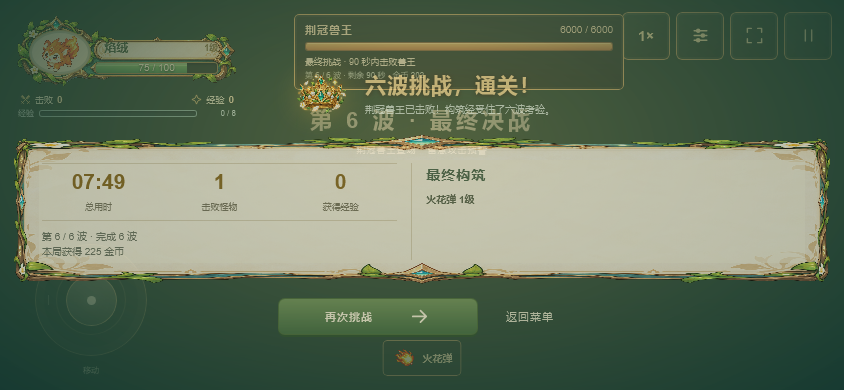
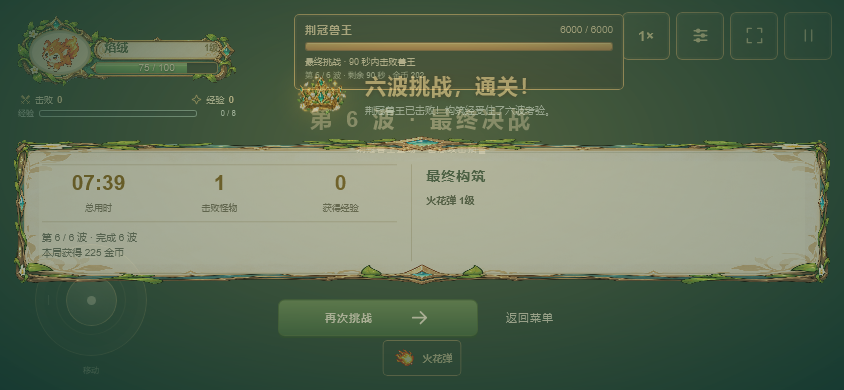
10倍速

diff --git a/tests/wave-boundary-performance.spec.ts b/tests/wave-boundary-performance.spec.ts
@@ -11,16 +11,19 @@ test.beforeEach(async ({ page }, info) => {
   await page.locator('#start-fusion').click();
 });
 
-for (const control of ['keyboard', 'joystick']) test(`held ${control} movement and a living enemy carry across the first boundary`, async ({ page }) => {
-  await page.evaluate(() => {
+for(const config of [{wave:1,speed:1},{wave:2,speed:1},{wave:2,speed:10},{wave:3,speed:10},{wave:4,speed:10}])
+for (const control of ['keyboard', 'joystick']) test(`held ${control} carries across wave ${config.wave} at ${config.speed}x with music unavailable`, async ({ page }) => {
+  await page.route('**/assets/music/*.ogg',route=>route.abort());
+  await page.evaluate(({wave,speed}) => {
     const g = (window as any).game; g.sleep();
+    g.run.waveIndex=wave-1;g.preferences.gameSpeed=speed;
     for (const e of g.combat.enemies) e.active = false;
     for (const o of g.combat.orbs) o.active = false;
-    g.run.waveElapsed = 65 - .01;
+    g.run.waveElapsed = g.run.definition.seconds - .01;
     const enemy = g.combat.spawn('tank', -12, -12, 0); enemy.hp = 37;
     (window as any).carriedEnemy = enemy;
     Object.assign(g.combat.orbs[0], { active: true, value: 8, x: 15, z: 15, previousX: 15, previousZ: 15 });
-  });
+  },config);
   if (control === 'keyboard') await page.keyboard.down('KeyD');
   else {
     const box = (await page.locator('#joystick').boundingBox())!;
@@ -30,21 +33,24 @@ for (const control of ['keyboard', 'joystick']) test(`held ${control} movement a
   }
   const state = await page.evaluate(() => {
     const g = (window as any).game, x = g.position.x, z = g.position.z;
-    for (let i = 0; i < 30; i++) g.step(1 / 60);
+    g.lastTime=g.renderTime=1000;g.accumulator=0;
+    for (let i = 1; i <= 30/g.preferences.gameSpeed; i++) {
+      g.frame(1000+i*1000/60);cancelAnimationFrame(g.frameId);g.frameId=0;
+    }
     return { wave: g.run.wave, phase: g.run.phase, rest: g.run.restElapsed, enemyActive: (window as any).carriedEnemy.active,
       enemyHp: (window as any).carriedEnemy.hp, looseXp: g.combat.orbs[0].active, choices: g.combat.progression.pendingChoices,
       moved: Math.hypot(g.position.x - x, g.position.z - z) };
   });
   if (control === 'keyboard') await page.keyboard.up('KeyD'); else await page.mouse.up();
-  expect(state).toMatchObject({ wave: 2, phase: 'fighting', rest: 0, enemyActive: true, enemyHp: 37, looseXp: true, choices: 0 });
+  expect(state).toMatchObject({ wave: config.wave+1, phase: 'fighting', rest: 0, enemyActive: true, enemyHp: 37, looseXp: true, choices: 0 });
   expect(state.moved).toBeGreaterThan(.5);
-  await expect(page.locator('#welcome h2')).toContainText('第 2 波');
+  await expect(page.locator('#welcome h2')).toContainText(`第 ${config.wave+1} 波`);
 });
 
 for (const looseExperience of [0, 96]) test(`wave boundary with ${looseExperience} loose XP keeps catch-up work bounded`, async ({ page }) => {
   const result = await page.evaluate((xp) => {
     const g = (window as any).game; g.sleep();
-    g.run.waveIndex = 1; g.run.prepare(g.combat, g.position);
+    g.run.waveIndex = 4; g.run.prepare(g.combat, g.position);
     for (const e of g.combat.enemies) e.active = false;
     for (const o of g.combat.orbs) o.active = false;
     for (let i = 0; i < xp; i++) Object.assign(g.combat.orbs[i], { active: true, value: 1, x: 15, z: 15, previousX: 15, previousZ: 15 });
@@ -78,9 +84,8 @@ for (const looseExperience of [0, 96]) test(`wave boundary with ${looseExperienc
   expect(result.catchUpCalls).toBeLessThanOrEqual(1);
   expect(result.calls).toBeLessThanOrEqual(5);
   expect(result.combatRenders).toBe(0);
-  expect(result.phase).toBe('fighting');
-  expect(result.wave).toBe(3);
-  expect(result.title).toContain('第 3 波');
+  expect(result.phase).toBe('shop');
+  expect(result.wave).toBe(5);
   expect(result.experience).toBe(looseExperience);
   expect(result.choices > 0).toBe(looseExperience > 0);
 });
@@ -90,7 +95,7 @@ test('live animation loop completes a later intermission without repeated HUD or
   page.on('pageerror', error => errors.push(error.message));
   await page.evaluate(() => {
     const g = (window as any).game; g.sleep();
-    g.run.waveIndex = 1; g.run.prepare(g.combat, g.position);
+    g.run.waveIndex = 4; g.run.prepare(g.combat, g.position);
     for (const e of g.combat.enemies) e.active = false;
     for (const o of g.combat.orbs) o.active = false;
     g.run.waveElapsed = g.run.definition.seconds - .001;
@@ -105,9 +110,9 @@ test('live animation loop completes a later intermission without repeated HUD or
     }
     g.wake();
   });
-  await page.waitForFunction(() => (window as any).game.run.wave === 3, { timeout: 12_000 });
+  await page.waitForFunction(() => (window as any).game.run.phase === 'shop', { timeout: 12_000 });
   expect(await page.evaluate(() => (window as any).restWork)).toEqual({ hud: 3, combat: 0, clears: 0 });
-  await expect(page.locator('#run-wave')).toContainText('第 3 / 6 波');
+  await expect(page.locator('#shop-screen')).toBeVisible();
   await expect(page.locator('#upgrade-screen')).toBeHidden();
   expect(errors).toEqual([]);
 });

diff --git a/tests/run-flow.spec.ts b/tests/run-flow.spec.ts
@@ -19,7 +19,7 @@ function fifthShop(f: ReturnType<typeof fixture>) {
   return f.run.shop!;
 }
 
-test('first wave connects seamlessly, later boundaries rest and only wave five has a shop', () => {
+test('survival waves connect seamlessly and only wave five rests for the shop', () => {
   const { c, run } = fixture();
   expect(SHOP_AFTER_WAVE).toBe(5);
   for(let wave=1; wave<=6; wave++) {
@@ -30,8 +30,8 @@ test('first wave connects seamlessly, later boundaries rest and only wave five h
     }
     expect(run.wave).toBe(wave);
     run.update(run.definition.seconds,c,origin);
-    if(wave===1) {
-      expect(run.phase).toBe('fighting');expect(run.wave).toBe(2);
+    if(wave<5) {
+      expect(run.phase).toBe('fighting');expect(run.wave).toBe(wave+1);
       expect(run.intermissionRemaining).toBe(0);
     } else if(wave<6) {
       expect(run.phase).toBe('intermission');
@@ -56,13 +56,15 @@ test('first wave connects seamlessly, later boundaries rest and only wave five h
   expect(run.phase).toBe('won');
   expect(run.completedWaves).toBe(6);
   expect(run.combatElapsed).toBe(455);
-  expect(run.totalElapsed).toBeCloseTo(455+4*WAVE_INTERMISSION_SECONDS+20);
+  expect(run.totalElapsed).toBeCloseTo(455+WAVE_INTERMISSION_SECONDS+20);
   expect(run.coins).toBe(225);
   expect(RUN_WAVES).toHaveLength(6);
 });
 
-test('first wave continues immediately with living enemies, loose XP and active combat state intact',()=>{
+for(const wave of [1,2,3,4]) test(`wave ${wave} continues immediately with living enemies, loose XP and active combat state intact`,()=>{
   const {c,run}=fixture();c.hp=73;
+  run.waveIndex=wave-1;
+  const reward=run.definition.reward;
   Object.assign(c.orbs[0],{active:true,value:8});
   run.prepare(c,origin);
   const enemy=c.spawn('tank',6,0,0)!;
@@ -71,8 +73,8 @@ test('first wave continues immediately with living enemies, loose XP and active 
   Object.assign(c.projectiles[0],{active:true,life:1.5});
   Object.assign(c.effects[0],{active:true,life:.3});
   const previous=JSON.stringify({enemy,orb:c.orbs[0],shot:c.projectiles[0],effect:c.effects[0]});
-  run.update(65,c,origin);
-  expect(run.phase).toBe('fighting');expect(run.wave).toBe(2);
+  run.update(run.definition.seconds,c,origin);
+  expect(run.phase).toBe('fighting');expect(run.wave).toBe(wave+1);
   expect(run.intermissionRemaining).toBe(0);expect(run.restElapsed).toBe(0);
   expect(c.progression.awaitingChoice).toBe(false);expect(c.progression.totalExperience).toBe(0);
   run.prepare(c,origin);
@@ -80,13 +82,27 @@ test('first wave continues immediately with living enemies, loose XP and active 
   expect(c.invulnerability).toBe(.3);expect(c.hurtFlash).toBe(.1);
   expect(c.kills).toBe(0);expect(run.completedWaves).toBe(1);
   run.resolveBoundary(c);
-  expect(run.coins).toBe(35);expect(c.hp).toBe(73);
+  expect(run.coins).toBe(reward);expect(c.hp).toBe(73);
   (c as any).damageEnemy(enemy,enemy.hp,0,0);
   run.update(.01,c,origin);
-  expect(c.kills).toBe(1);expect(run.coins).toBe(37);
+  expect(c.kills).toBe(1);expect(run.coins).toBe(reward+2);
   (c as any).damageEnemy(enemy,1000,0,0);
   run.update(.01,c,origin);
-  expect(c.kills).toBe(1);expect(run.coins).toBe(37);
+  expect(c.kills).toBe(1);expect(run.coins).toBe(reward+2);
+});
+
+test('unfinished elite and hostile warnings carry into wave five, then shop clears them',()=>{
+  const {c,run}=fixture();run.waveIndex=3;run.waveElapsed=12;run.prepare(c,origin);
+  const elite=c.encounters.elite!;elite.hp=239;
+  c.encounters.elitePulsing=true;c.encounters.eliteTime=.3;c.encounters.eliteCooldown=.7;
+  c.encounters.shots[0].active=true;
+  run.waveElapsed=75;run.resolveBoundary(c);run.prepare(c,origin);
+  expect(run.wave).toBe(5);expect(c.encounters.elite).toBe(elite);expect(elite.active).toBe(true);expect(elite.hp).toBe(239);
+  expect(c.encounters.elitePulsing).toBe(true);expect(c.encounters.eliteTime).toBe(.3);expect(c.encounters.eliteCooldown).toBe(.7);
+  expect(c.encounters.shots[0].active).toBe(true);
+  run.waveElapsed=80;run.resolveBoundary(c);
+  expect(run.phase).toBe('intermission');expect(elite.active).toBe(false);expect(c.encounters.shots[0].active).toBe(false);
+  run.updateRest(WAVE_INTERMISSION_SECONDS,c);expect(run.phase).toBe('shop');
 });
 
 test('real kills earn gold once and cannot be recycled into duplicates',()=>{

diff --git a/src/run-flow.ts b/src/run-flow.ts
@@ -88,7 +88,7 @@ export class RunFlow {
   /** Called before the combat tick; also callable by headless simulations. */
   prepare(combat: Combat, player: {x: number; z: number}) {
     if (this.phase !== 'fighting') return;
-    if (combat.encounters.wave !== this.wave) combat.encounters.beginWave(this.wave);
+    if (combat.encounters.wave !== this.wave) combat.encounters.beginWave(this.wave, this.wave <= SHOP_AFTER_WAVE);
     if (this.wave === 6) combat.encounters.spawnBoss(combat,player);
     if (this.wave === 4 && this.waveElapsed >= 10) combat.encounters.spawnElite(combat,player);
   }
@@ -168,9 +168,9 @@ export class RunFlow {
       if (!combat.encounters.defeated) { this.phase='lost'; this.failure='boss-timeout'; combat.clearTransientEffects(); return; }
       this.bossDefeated=true;
     }
-    // The opening wave changes spawn rules without interrupting the battle.
+    // Survival waves change spawn rules without interrupting the battle.
     // Leave living enemies, loose XP and ongoing attacks in their current state.
-    const seamless = this.wave === 1;
+    const seamless = this.wave < SHOP_AFTER_WAVE;
     if (!seamless && !this.claimedExperience) {
       let experience = 0;
       for (const orb of combat.orbs) if (orb.active) { experience += orb.value; orb.active = false; }

diff --git a/tests/mixed-wave-transition.spec.ts b/tests/mixed-wave-transition.spec.ts
@@ -63,19 +63,12 @@ test('formal sprinters flank during chase, leap with locked telegraph, then dise
   expect(sprinter.intent).toBe('windup');
 });
 
-test('battlefield intermission preserves HP/build and blocks shops before the fifth boundary',()=>{
+test('continuous survival waves preserve HP/build and block shops before the fifth boundary',()=>{
   const {c,flow}=fixture();c.hp=73;
   c.grantUpgrade('damage');
   for(let wave=1;wave<=4;wave++) {
     flow.update(flow.definition.seconds,c,origin);
     expect(flow.shop).toBeUndefined();
-    if(wave===1) { expect(flow.phase).toBe('fighting');expect(flow.wave).toBe(2);continue; }
-    expect(flow.phase).toBe('intermission');
-    const frozen=JSON.stringify(c.inspect());
-    flow.updateRest(1.5,c);
-    expect(flow.phase).toBe('intermission');
-    expect(JSON.stringify(c.inspect())).toBe(frozen);
-    flow.updateRest(WAVE_INTERMISSION_SECONDS-1.5,c);
     expect(flow.phase).toBe('fighting');
     expect(flow.wave).toBe(wave+1);
     expect(c.hp).toBe(73);

diff --git a/src/audio.ts b/src/audio.ts
@@ -69,11 +69,19 @@ export class GameAudio {
     this.playingTrack = track; this.musicStarts++;
   }
   setWave(wave?: number) {
+    if (wave === 2) this.prepareMusic('grassland');
+    if (wave === 5) this.prepareMusic('boss');
     const track: MusicTrack = wave === 6 ? 'boss' : wave && wave >= 3 && wave <= 5 ? 'grassland' : 'original';
     if (track === this.track) return;
     this.track = track;
     this.failedTracks.delete(track);
     void this.syncMusic();
+  }
+  private prepareMusic(track: 'grassland' | 'boss') {
+    const context = this.context;
+    if (!context || this.disposed || !this.running || !this.music || this.musicBuffers.has(track) || this.musicLoads.has(track) || this.failedTracks.has(track)) return;
+    // Cache only; do not switch the currently playing music during preloading.
+    void this.loadMusic(track, context);
   }
   private loadMusic(track: 'grassland' | 'boss', context: AudioContext) {
     const cached = this.musicBuffers.get(track);

diff --git a/src/enemy-challenge.ts b/src/enemy-challenge.ts
@@ -56,7 +56,13 @@ export class EnemyChallenge {
     this.eliteCooldown = 2; this.elitePulsing = this.pulseDue = false; this.aimX = 0; this.aimZ = 1;
     this.clearShots();
   }
-  beginWave(wave: number) { this.reset(); this.enabled = true; this.wave = wave; }
+  beginWave(wave: number, continuous = false) {
+    if (continuous && this.enabled && wave === this.wave + 1 && wave <= 5) {
+      // An unfinished wave-four elite keeps its pulse/health into wave five.
+      this.wave = wave; return;
+    }
+    this.reset(); this.enabled = true; this.wave = wave;
+  }
   beforeTick(dt: number) {
     this.pulseDue = false;
     if (this.bossState === 'dying') { this.bossTime += dt; if (this.bossTime >= 1) this.bossState = 'defeated'; }

diff --git a/tests/enemy-challenge.spec.ts b/tests/enemy-challenge.spec.ts
@@ -115,7 +115,7 @@ test('wave four retries a saturated elite spawn, and wave clears/restarts remove
   run.prepare(c,origin); expect(c.encounters.elite).toBeUndefined();
   c.enemies[0].active=false; run.prepare(c,origin); expect(c.encounters.elite?.rank).toBe('elite');
   c.encounters.shots[0].active=true; c.clearWave(); expect(c.encounters.inspect()).toMatchObject({enabled:false,boss:null,elite:null,shots:[]});
-  run.waveElapsed=75; run.resolveBoundary(c); expect(run.phase).toBe('intermission');
+  run.waveElapsed=75; run.resolveBoundary(c); expect(run.phase).toBe('fighting');expect(run.wave).toBe(5);
   c.reset(); expect(c.encounters.enabled).toBe(false); expect(c.enemies.every(e=>!e.active)).toBe(true);
 });
 

diff --git a/tests/swarm.spec.ts b/tests/swarm.spec.ts
@@ -141,7 +141,7 @@ test('high-throughput clearing has bounded economy, pooled XP merge and exactly-
     expect(run.earned).toBeLessThanOrEqual(reward + c.kills + 18);
     const generatedXp=c.xp+c.orbs.filter(o=>o.active).reduce((n,o)=>n+o.value,0);
     expect(generatedXp).toBeLessThanOrEqual(c.kills * 8 + 24);
-    expect(generatedXp).toBeGreaterThan(0); expect(run.phase).toBe(wave===1?'fighting':'intermission');
+    expect(generatedXp).toBeGreaterThan(0); expect(run.phase).toBe(wave<5?'fighting':'intermission');
     const xp = c.xp, gold = run.earned;
     run.resolveBoundary(c); expect(c.xp).toBe(xp); expect(run.earned).toBe(gold);
     expect(c.orbs).toHaveLength(96);

diff --git a/tests/run-flow-ui.spec.ts b/tests/run-flow-ui.spec.ts
@@ -31,8 +31,8 @@ test('complete six-wave UI with shopping, healing, refresh, victory, clean resta
     if (wave === 2) await page.evaluate(() => { (window as any).game.combat.hp = 40; });
     await finishWave(page);
     await expect(page.locator('#shop-screen')).toBeHidden();
-    if(wave===1) {
-      await expect(page.locator('#run-wave')).toContainText('第 2 / 6 波');
+    if(wave<5) {
+      await expect(page.locator('#run-wave')).toContainText(`第 ${wave+1} / 6 波`);
       expect(await page.evaluate(() => (window as any).game.run.phase)).toBe('fighting');
       continue;
     }

diff --git a/tests/wave-music.spec.ts b/tests/wave-music.spec.ts
@@ -33,6 +33,7 @@ test('real Ogg tracks loop for waves 3–5 and 6, share pause/mute and reset on 
   const errors: string[] = []; page.on('pageerror', error => errors.push(error.message));
   expect(await audio(page)).toMatchObject({ track: 'original', playingTrack: 'original', looping: true });
   await wave(page, 2);
+  await expect.poll(async () => (await audio(page)).loadedTracks).toContain('grassland');
   expect((await audio(page)).playingTrack).toBe('original');
   await wave(page, 3);
   await expect.poll(async () => (await audio(page)).playingTrack).toBe('grassland');

diff --git a/src/style.css b/src/style.css
@@ -848,6 +848,7 @@ h1>em{font-size:12px;line-height:1;letter-spacing:4px;display:inline-block;backg
 .settings-grid{min-height:0;overflow-y:auto;overscroll-behavior:contain;touch-action:pan-y}
 @media(max-height:500px) and (orientation:landscape){
   .graphics-setting>p,.graphics-setting>small{display:none}
-  .graphics-setting .speed-label{margin-top:10px}
-  #game-speed-setting{min-height:44px}
+  .graphics-setting>label{margin-bottom:4px}
+  .graphics-setting .speed-label{margin-top:6px}
+  #quality,#game-speed-setting{min-height:44px;padding:6px 8px}
 }

diff --git a/tests/game-speed.spec.ts b/tests/game-speed.spec.ts
@@ -58,7 +58,7 @@ test('10x advances the real fixed-step frame loop tenfold without enlarging coll
   expect(result.ticks).toBeLessThanOrEqual(50);expect(result.maxStep).toBe(1/60);
 });
 
-test('10x speeds battlefield rest but upgrades still freeze and shop time stays real',async({page})=>{
+test('10x continues survival waves but upgrades still freeze and shop time stays real',async({page})=>{
   await page.locator('#start-fusion').click();
   const result=await page.evaluate(()=>{
     const g=(window as any).game;g.sleep();g.preferences.gameSpeed=10;
